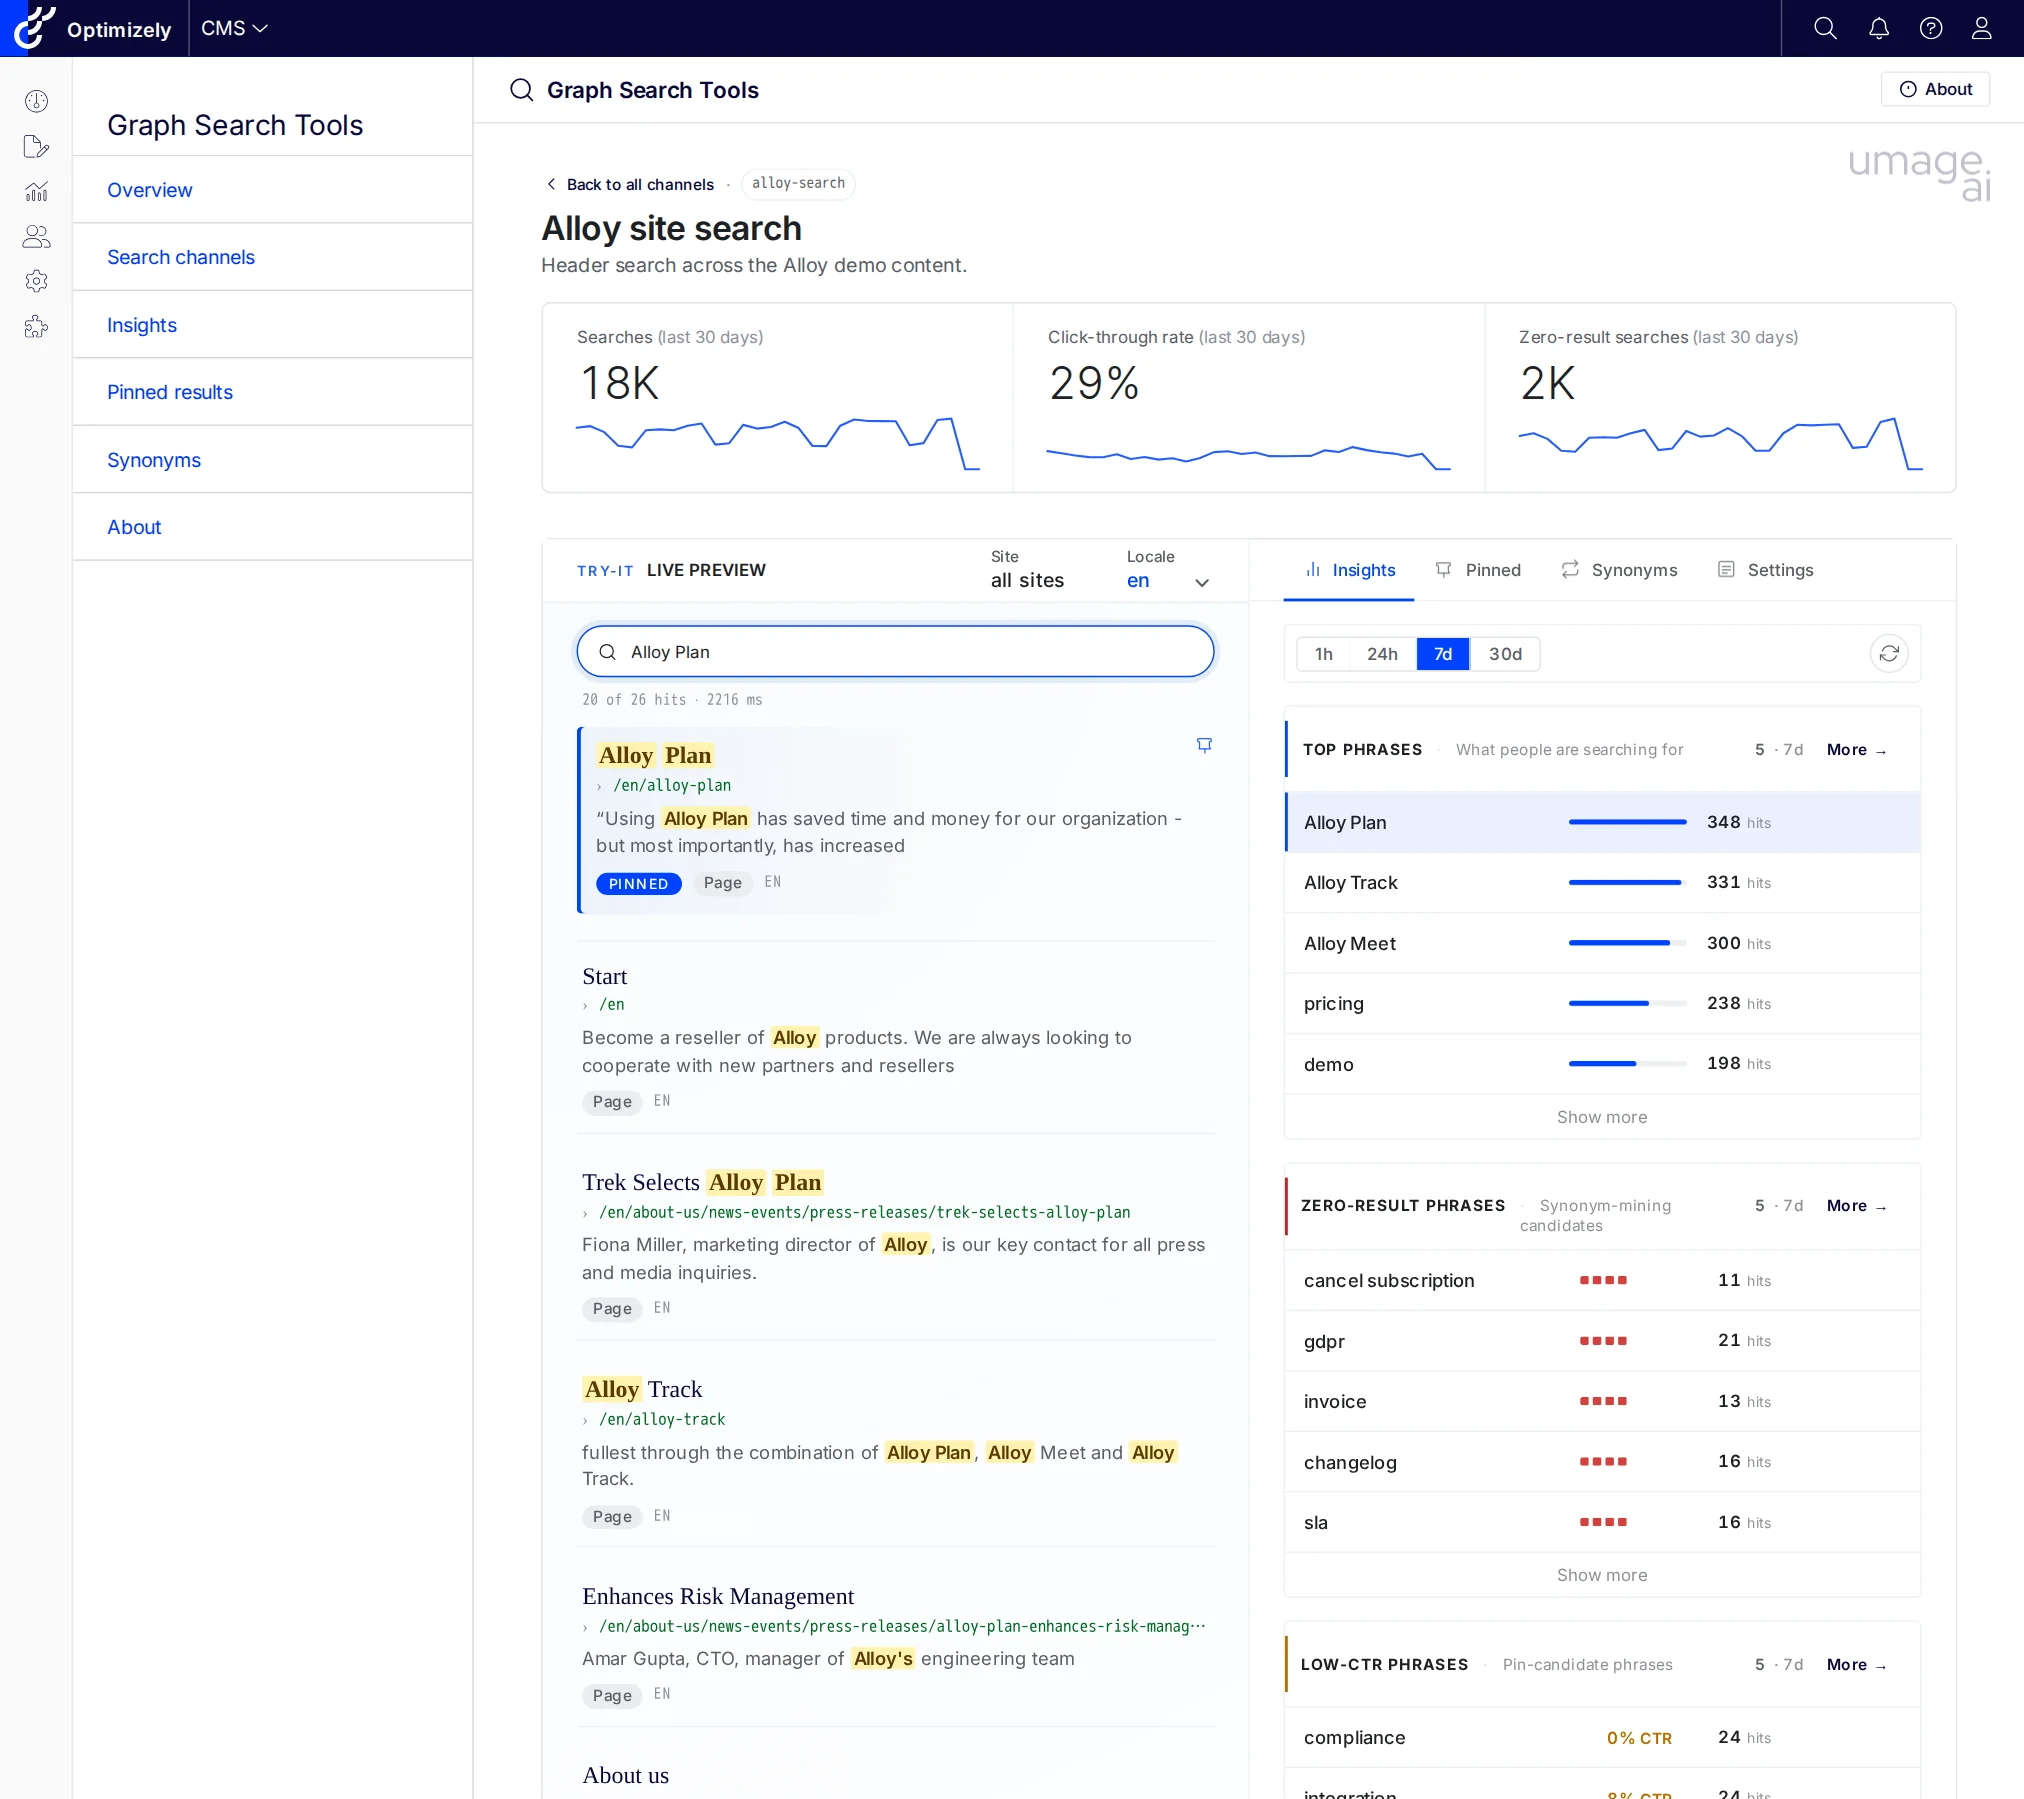
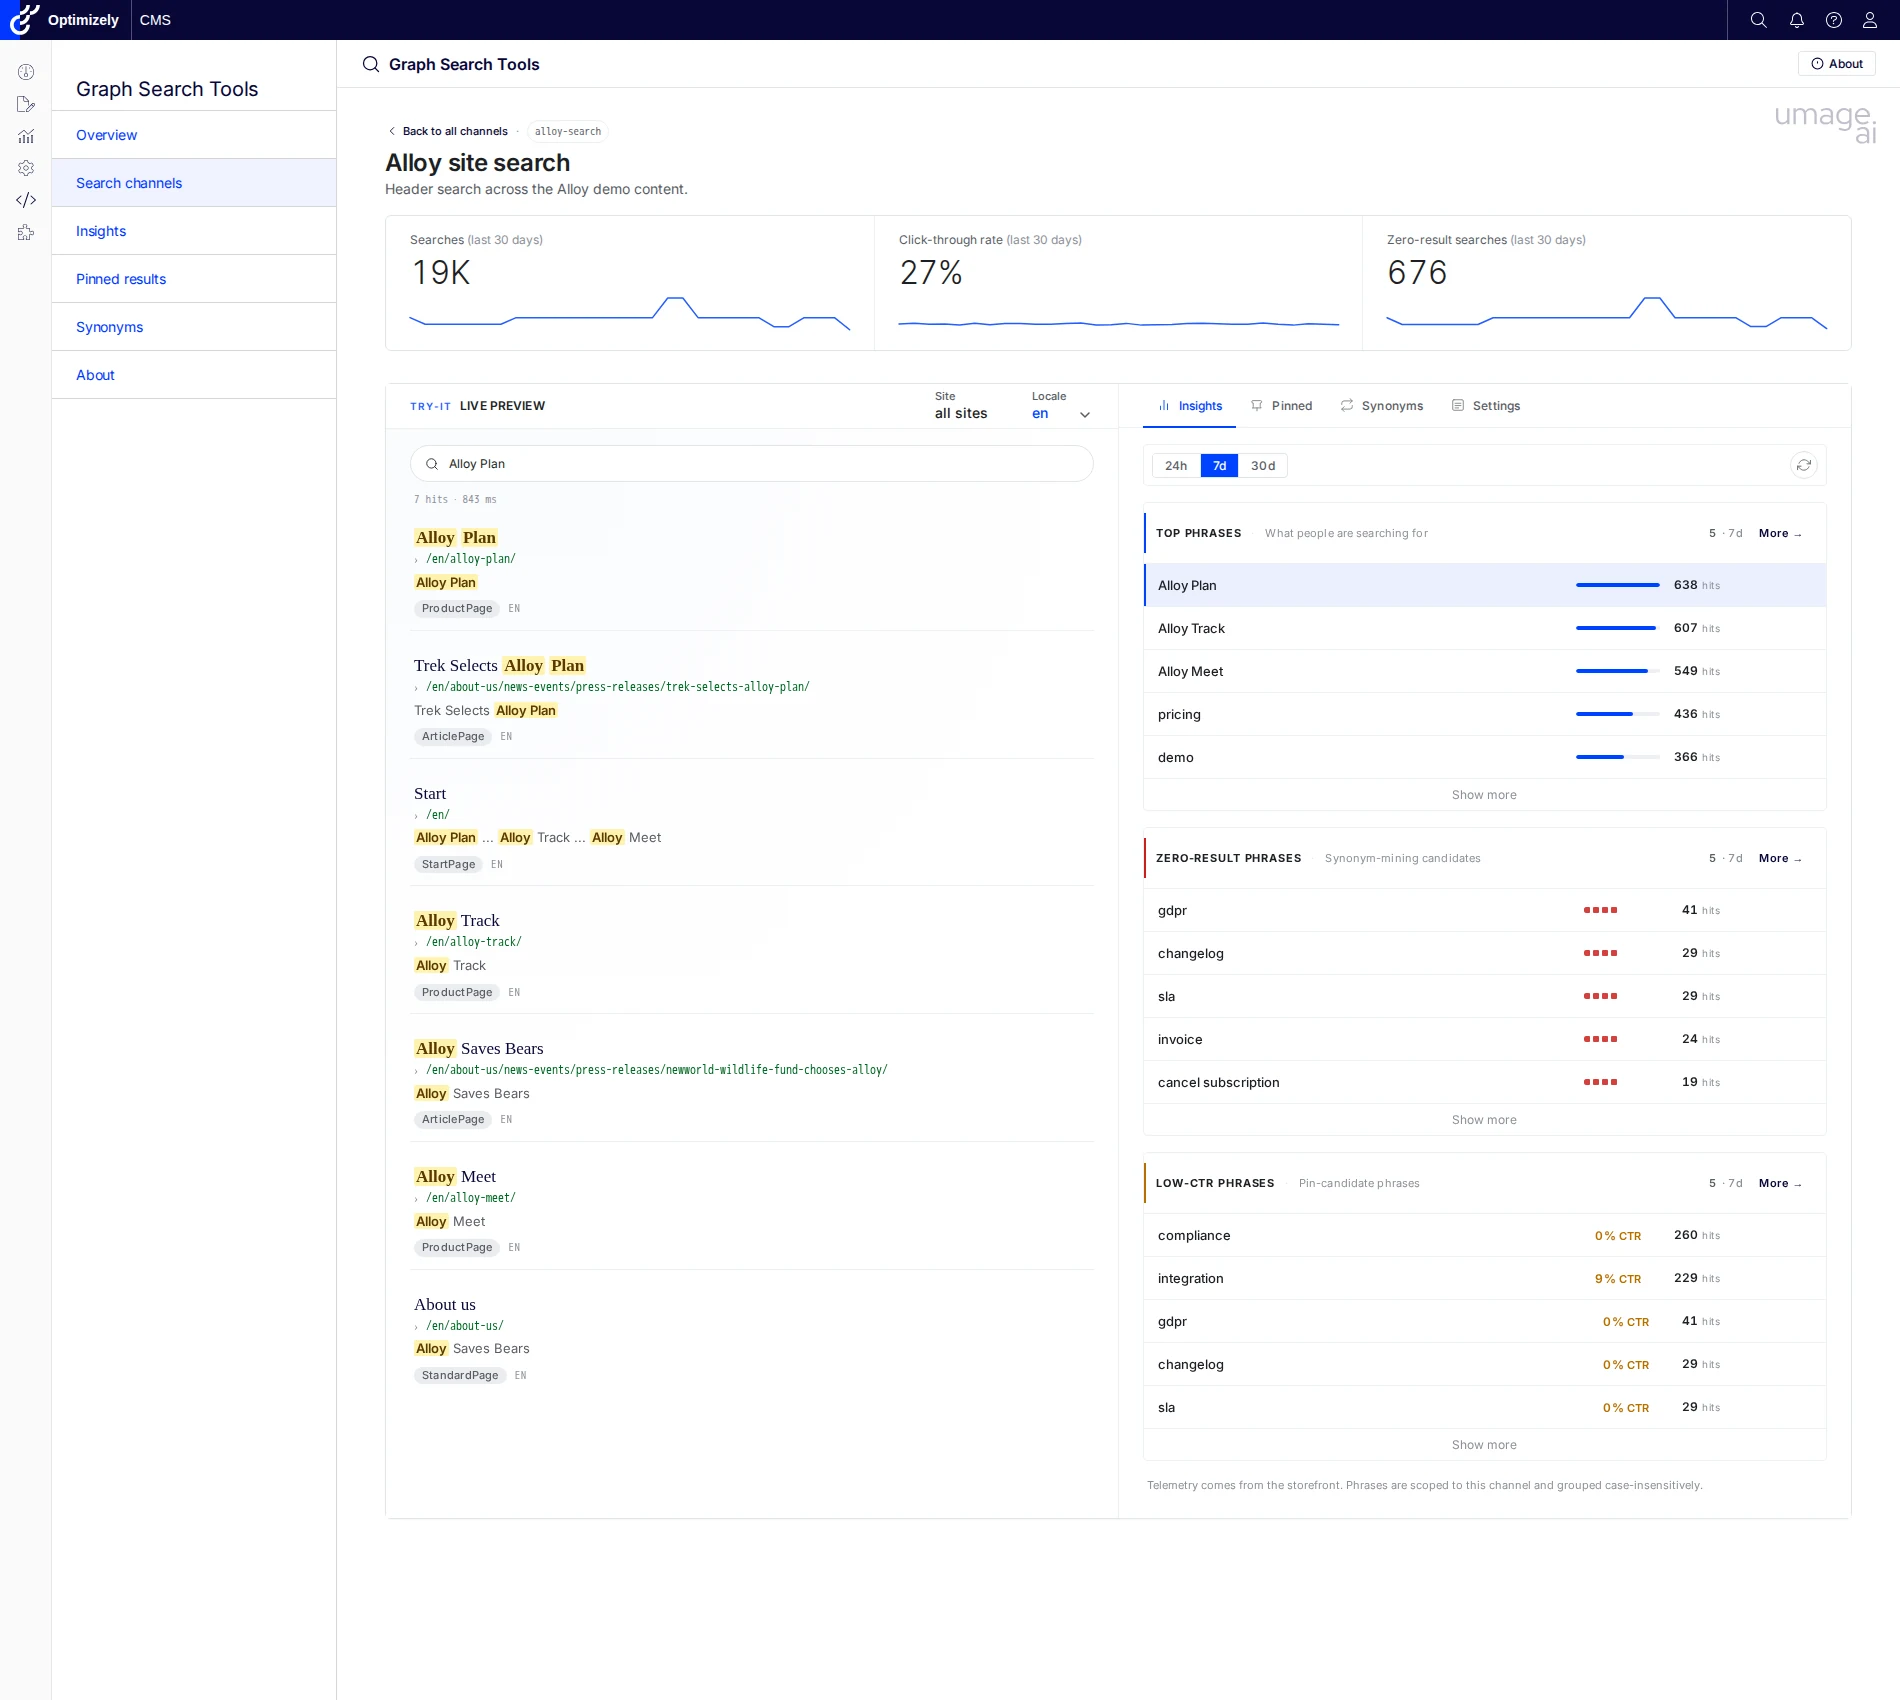
Align Insights window set across dashboard and Channel > Insights
Both surfaces now expose 24h / 7d / 30d with 7d as the default. The
top-level Insights toolbar gains 24h; the Channel > Insights segmented
control drops 1h and its default moves from 24h to 7d.

Updates the design-system Segmented example to match the new channel
control, refreshes README copy, and regenerates the channel-detail and
insights screenshots from the CMS 13 sample with richer seeded data.

diff --git a/src/GraphSearchtools/modules/_protected/GraphSearchtools/ClientResources/js/channels.js b/src/GraphSearchtools/modules/_protected/GraphSearchtools/ClientResources/js/channels.js
@@ -806,7 +806,7 @@
         // Time-window pills map to a since-millis offset. The ISO string is
         // recomputed at fetch time so the window is always anchored to "now"
         // rather than going stale across long-lived sessions.
-        var WINDOWS = { '1h': 3600e3, '24h': 86400e3, '7d': 7 * 86400e3, '30d': 30 * 86400e3 };
+        var WINDOWS = { '24h': 86400e3, '7d': 7 * 86400e3, '30d': 30 * 86400e3 };
 
         // Lane-local state. Each lane starts at INITIAL_TAKE rows and grows
         // by SHOW_MORE_STEP per "show more" click. Resets back to INITIAL_TAKE
@@ -823,7 +823,7 @@
         };
 
         var state = {
-            window: '24h',
+            window: '7d',
             inflight: null,
             takes: { top: INITIAL_TAKE, zero: INITIAL_TAKE, lowctr: INITIAL_TAKE },
             // When set (UTC midnight), overrides the window pill — the
@@ -855,7 +855,7 @@
         }
 
         function activeWindowMs() {
-            return WINDOWS[state.window] || WINDOWS['24h'];
+            return WINDOWS[state.window] || WINDOWS['7d'];
         }
 
         function setAlert(msg) {
@@ -872,7 +872,7 @@
                 if (pill.classList.contains('is-active') && !state.dateFilter) return;
                 pillEls.forEach(function (p) { p.classList.remove('is-active'); });
                 pill.classList.add('is-active');
-                state.window = pill.dataset.window || '24h';
+                state.window = pill.dataset.window || '7d';
                 clearDateFilter(/* silent: */ true);
                 resetTakes();
                 fetchAll();

diff --git a/src/GraphSearchtools/modules/_protected/GraphSearchtools/ClientResources/js/insights.js b/src/GraphSearchtools/modules/_protected/GraphSearchtools/ClientResources/js/insights.js
@@ -5,7 +5,7 @@
  *   1. 30d KPI strip    — GET InsightsApi/SearchKpis (always 30d, sparklines).
  *                         Clicking a sparkline day filters the active lane
  *                         tab to that single UTC day.
- *   2. Toolbar          — Window select (7d/30d), Channel select, Locale
+ *   2. Toolbar          — Window select (24h/7d/30d), Channel select, Locale
  *                         select. Lives below the KPIs because these
  *                         controls only scope the tables.
  *   3. Tab strip        — one tab per lane (Top / Zero-result / Low-CTR),
@@ -367,7 +367,7 @@
             else if (k === 'locale') state.locale = v;
             else if (k === 'days') {
                 var d = parseInt(v, 10);
-                if (d === 7 || d === 30) state.days = d;
+                if (d === 1 || d === 7 || d === 30) state.days = d;
             }
             else if (k === 'sort') {
                 // sort=<lane>:<col>:<dir> — encodes the active lane's pick.

diff --git a/README.md b/README.md
@@ -15,7 +15,7 @@ Six menu entries under a top-level **Graph Search Tools** section in the CMS she
 |------|-------------|
 | **Overview** | Landing dashboard with quick-access cards for the other tools. |
 | **Search channels** | Per-surface tuning index. Each registered search channel gets a detail page with KPI strip, Try-it live preview, and Insights / Pinned / Synonyms / Settings tabs scoped to that surface. |
-| **Insights** | Cross-channel marketer dashboard. Top phrases, zero-result candidates, low-CTR phrases, filterable by channel and locale over a 7d / 30d window. |
+| **Insights** | Cross-channel marketer dashboard. Top phrases, zero-result candidates, low-CTR phrases, filterable by channel and locale over a 24h / 7d / 30d window. |
 | **Pinned results** | Tenant-wide pin browser with Pins / Collections / Changelog tabs. Filter pins by collection or locale; jump to the owning channel with one click. Hits / CTR / zero-result columns surface coverage signals (unpublished targets, expired pins, low-CTR pins) inline. |
 | **Synonyms** | Replacement and equivalent synonym rules with a Rules + Changelog tab strip. Filter by scope (per-locale and tenant-global pools). Activity column shows last-30-days impact, and unused / missing-synonym signals surface in the same grid. |
 | **About** | Colophon: version, license, included tools, links. |
@@ -46,7 +46,7 @@ KPI strip (searches / CTR / zero-result) plus a Try-it live preview that runs th
 
 ![Insights](docs/screenshots/04-insights.webp)
 
-Cross-channel marketer dashboard. Switch tabs between Top phrases, Zero-result phrases, and Low-CTR phrases; filter by channel, locale, and 7d / 30d window. The shorter 1h / 24h windows live one level down on each Channel detail page, where they share state with the Try-it preview.
+Cross-channel marketer dashboard. Switch tabs between Top phrases, Zero-result phrases, and Low-CTR phrases; filter by channel, locale, and 24h / 7d / 30d window. The same window set scopes the Insights tab inside each Channel detail page, where it shares state with the Try-it preview.
 
 ### Pinned results
 

diff --git a/docs/design-system.md b/docs/design-system.md
@@ -431,16 +431,15 @@ revealing a different panel. Visually a single rounded pill split into
 segments — the active segment fills with primary blue.
 
 **Use when** a single surface needs a small set of mutually-exclusive
-states (window pickers `[1h | 24h | 7d | 30d]`, sort modes, view density).
+states (window pickers `[24h | 7d | 30d]`, sort modes, view density).
 **Don't use** to swap panels — use **Tabs** above.
 
 ### Skeleton
 
 ```html
 <div class="gst-segmented" role="group" aria-label="Time window">
-    <button type="button" class="gst-segmented__btn" data-window="1h">1h</button>
-    <button type="button" class="gst-segmented__btn is-active" data-window="24h">24h</button>
-    <button type="button" class="gst-segmented__btn" data-window="7d">7d</button>
+    <button type="button" class="gst-segmented__btn" data-window="24h">24h</button>
+    <button type="button" class="gst-segmented__btn is-active" data-window="7d">7d</button>
     <button type="button" class="gst-segmented__btn" data-window="30d">30d</button>
 </div>
 ```

diff --git a/RELEASE-NOTES.md b/RELEASE-NOTES.md
@@ -1,5 +1,11 @@
 # Release Notes
 
+## v0.2.0
+
+### Changes
+
+- **Insights window set unified across the top-level dashboard and the per-channel Insights tab.** Both surfaces now expose **24h / 7d / 30d** with **7d** as the default. The top-level Insights toolbar gains the **24h** option; the Channel > Insights segmented control drops **1h** and its default moves from 24h to 7d.
+
 ## v0.1.1
 
 ### Fixes
